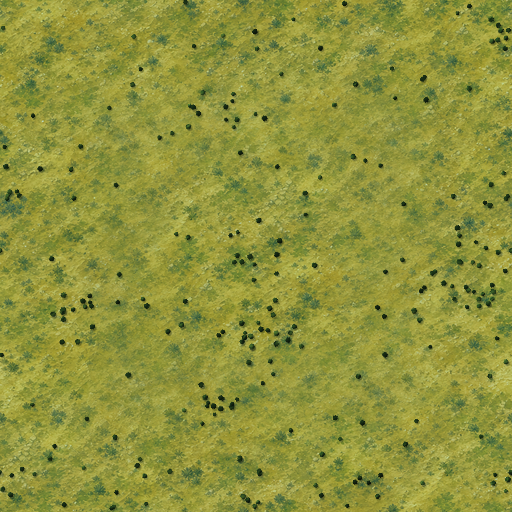
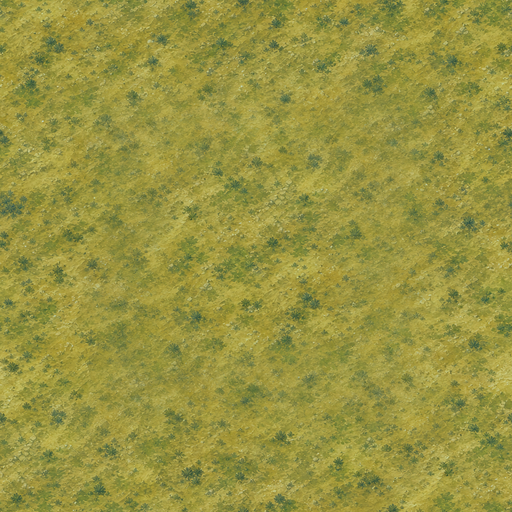
Gouache: forest and jungle as an even canopy of small dense crowns, open plains
No drawn crowns inside forest and jungle in the top-down mode: their ground is
the canopy, now of small crowns with only faint gaps (--gaps for
canopy_texture.py), so they read as dense points instead of blotches. Crowns
spilling over forest edges are smaller. Plains have no trees on them.

Claude-Session: https://claude.ai/code/session_01VGBb6mKQ3kspS5r6m29MiP

diff --git a/src/Graphics/PaintedMap.cs b/src/Graphics/PaintedMap.cs
@@ -2825,7 +2825,8 @@ namespace OpenCivOne.Graphics
 					{
 						// open land seen from high above: lone trees scattered over it and the odd copse
 						bool grass = terrain == Grassland;
-						int lone = grass ? 20 + random.Next(14) : 7 + random.Next(7);
+						// plains stay open: trees there only blur them with grassland
+						int lone = grass ? 8 + random.Next(6) : 0;
 
 						for (int n = 0; n < lone; n++)
 						{
@@ -2835,7 +2836,7 @@ namespace OpenCivOne.Graphics
 								this.PlaceCrown(placements, random, x, y, Range(random, 2.6f, 3.8f) * k, Grassland);
 						}
 
-						if (random.NextDouble() < (grass ? 0.35 : 0.15) && Distance(left + (32 * k), top + (32 * k), fx, fy) >= clear * 1.2f)
+						if (random.NextDouble() < (grass ? 0.25 : 0) && Distance(left + (32 * k), top + (32 * k), fx, fy) >= clear * 1.2f)
 						{
 							float copseX = left + (Range(random, 18, 46) * k), copseY = top + (Range(random, 18, 46) * k);
 
@@ -3236,7 +3237,7 @@ namespace OpenCivOne.Graphics
 					float y = top + (((v + 0.5f) * step) + (Range(random, -0.4f, 0.4f) * step)) * k;
 
 					// seen from above, a forest's own ground is its canopy: only a few crowns stand out of it
-					if (Distance(x, y, fx, fy) >= clear && (!forest || random.NextDouble() < 0.5))
+					if (Distance(x, y, fx, fy) >= clear && !this.topDown)
 						this.PlaceCrown(placements, random, x, y, Range(random, forest ? 3.4f : 3.8f, forest ? 5.2f : 5.8f) * k, terrain);
 				}
 			}
@@ -3263,7 +3264,7 @@ namespace OpenCivOne.Graphics
 
 					float x = left + ((dx != 0) ? (dx > 0 ? 64 + depth : -depth) : along) * k;
 					float y = top + ((dy != 0) ? (dy > 0 ? 64 + depth : -depth) : along) * k;
-					this.PlaceCrown(placements, random, x, y, Range(random, 3.5f, 5.5f) * (1 - (into * 0.3f)) * k, terrain);
+					this.PlaceCrown(placements, random, x, y, Range(random, 2.2f, 3.2f) * (1 - (into * 0.3f)) * k, terrain);
 				}
 			}
 		}

diff --git a/tools/hdart/canopy_texture.py b/tools/hdart/canopy_texture.py
@@ -2,7 +2,8 @@
 merge into one surface, cool blue-green, each crown lit on its upper-left side, with dark shadowy gaps winding between
 clumps of trees. No ground shows through.
 
-Usage: python3 canopy_texture.py OUT.png [--size 512] [--seed 1] [--crown 7] [--palette forest|jungle]
+Usage: python3 canopy_texture.py OUT.png [--size 512] [--seed 1] [--crown 7] [--palette forest|jungle|temperate] [--gaps 1]
+  --gaps   how strong the shadowy gaps and broad variations between stands of trees are (lower for an even canopy)
 """
 
 import sys
@@ -30,7 +31,7 @@ def periodic_noise(rng, n, freq):
 
 def main():
     args = sys.argv[1:]
-    opts = {'--size': '512', '--seed': '1', '--crown': '7', '--palette': 'forest'}
+    opts = {'--size': '512', '--seed': '1', '--crown': '7', '--palette': 'forest', '--gaps': '1'}
     for key in list(opts):
         if key in args:
             i = args.index(key); opts[key] = args[i + 1]; del args[i:i + 2]
@@ -63,6 +64,7 @@ def main():
     # winding gaps: low places between clumps of trees, deep in shadow
     gaps = periodic_noise(rng, n, n / (cr * 9)) + periodic_noise(rng, n, n / (cr * 4)) * 0.5
     gap = np.clip((gaps - 0.6) / 1.1, 0, 1)
+    gap *= float(opts['--gaps'])
     height = height * (1 - 0.5 * gap)
 
     # lit from the top left
@@ -76,7 +78,7 @@ def main():
     t = tone[..., None]
     col = np.where(t < 0.5, dark + (mid - dark) * (t / 0.5), mid + (light - mid) * ((t - 0.5) / 0.5))
     # gentle variation between stands of trees
-    col *= (1 + periodic_noise(rng, n, n / (cr * 14)) * 0.07)[..., None]
+    col *= (1 + periodic_noise(rng, n, n / (cr * 14)) * 0.07 * float(opts['--gaps']))[..., None]
     # the gaps fall into deep blue shadow
     col = col * (1 - 0.45 * gap[..., None])
     Image.fromarray(col.clip(0, 255).astype(np.uint8)).save(args[0])
